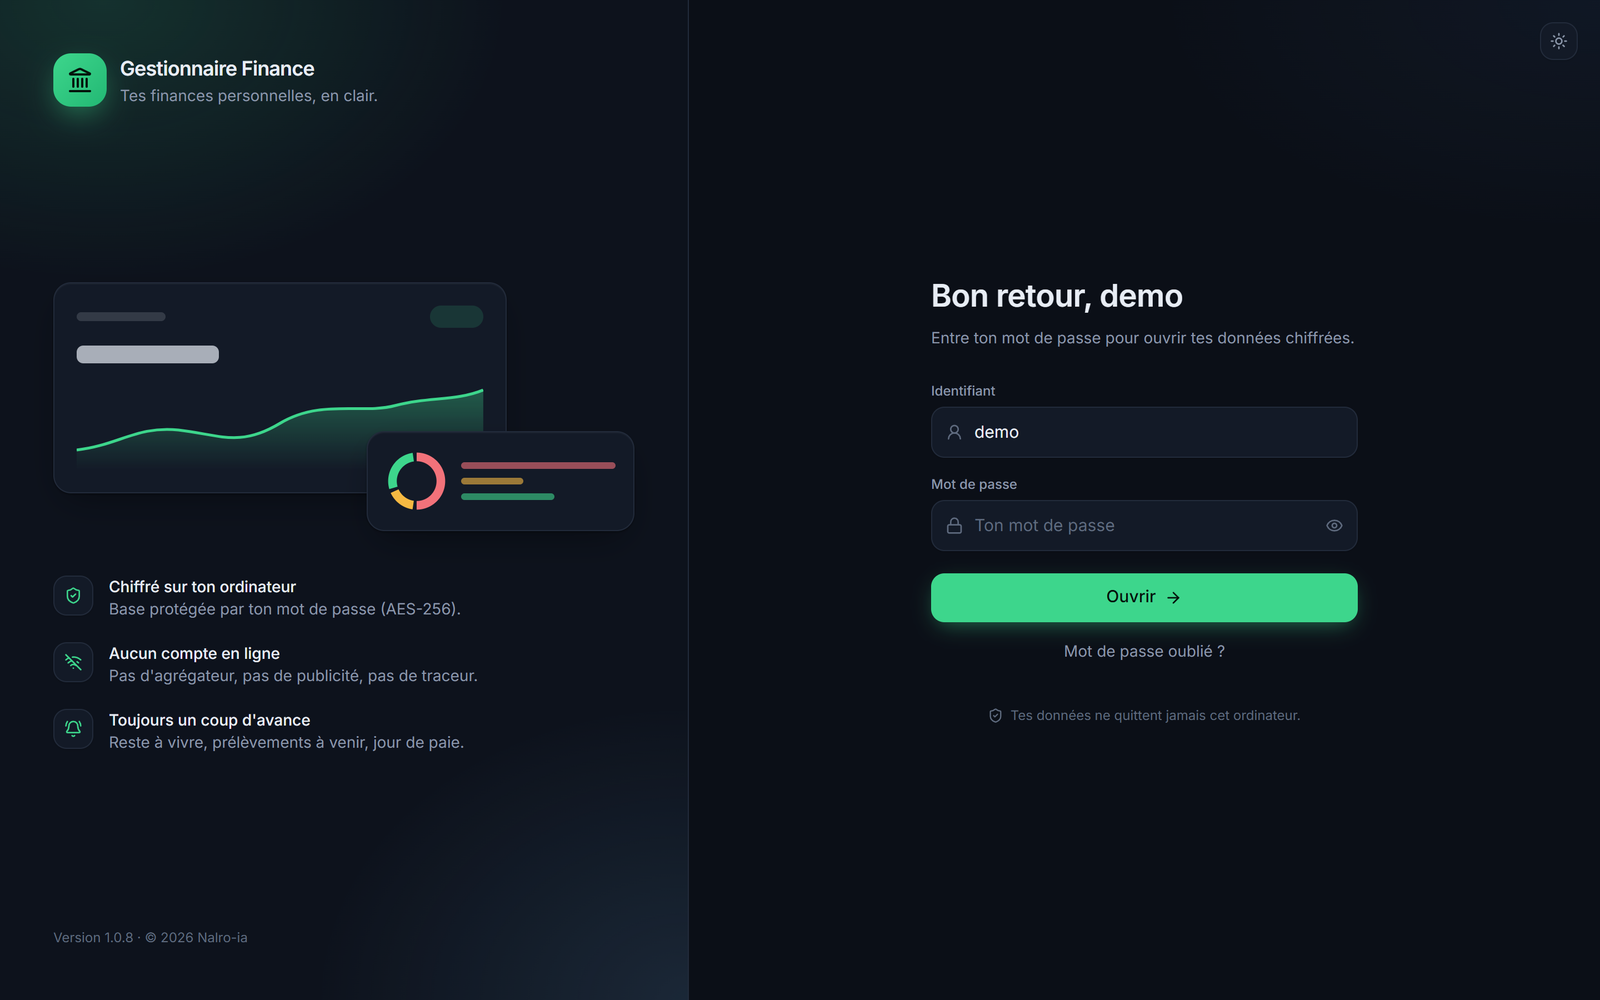
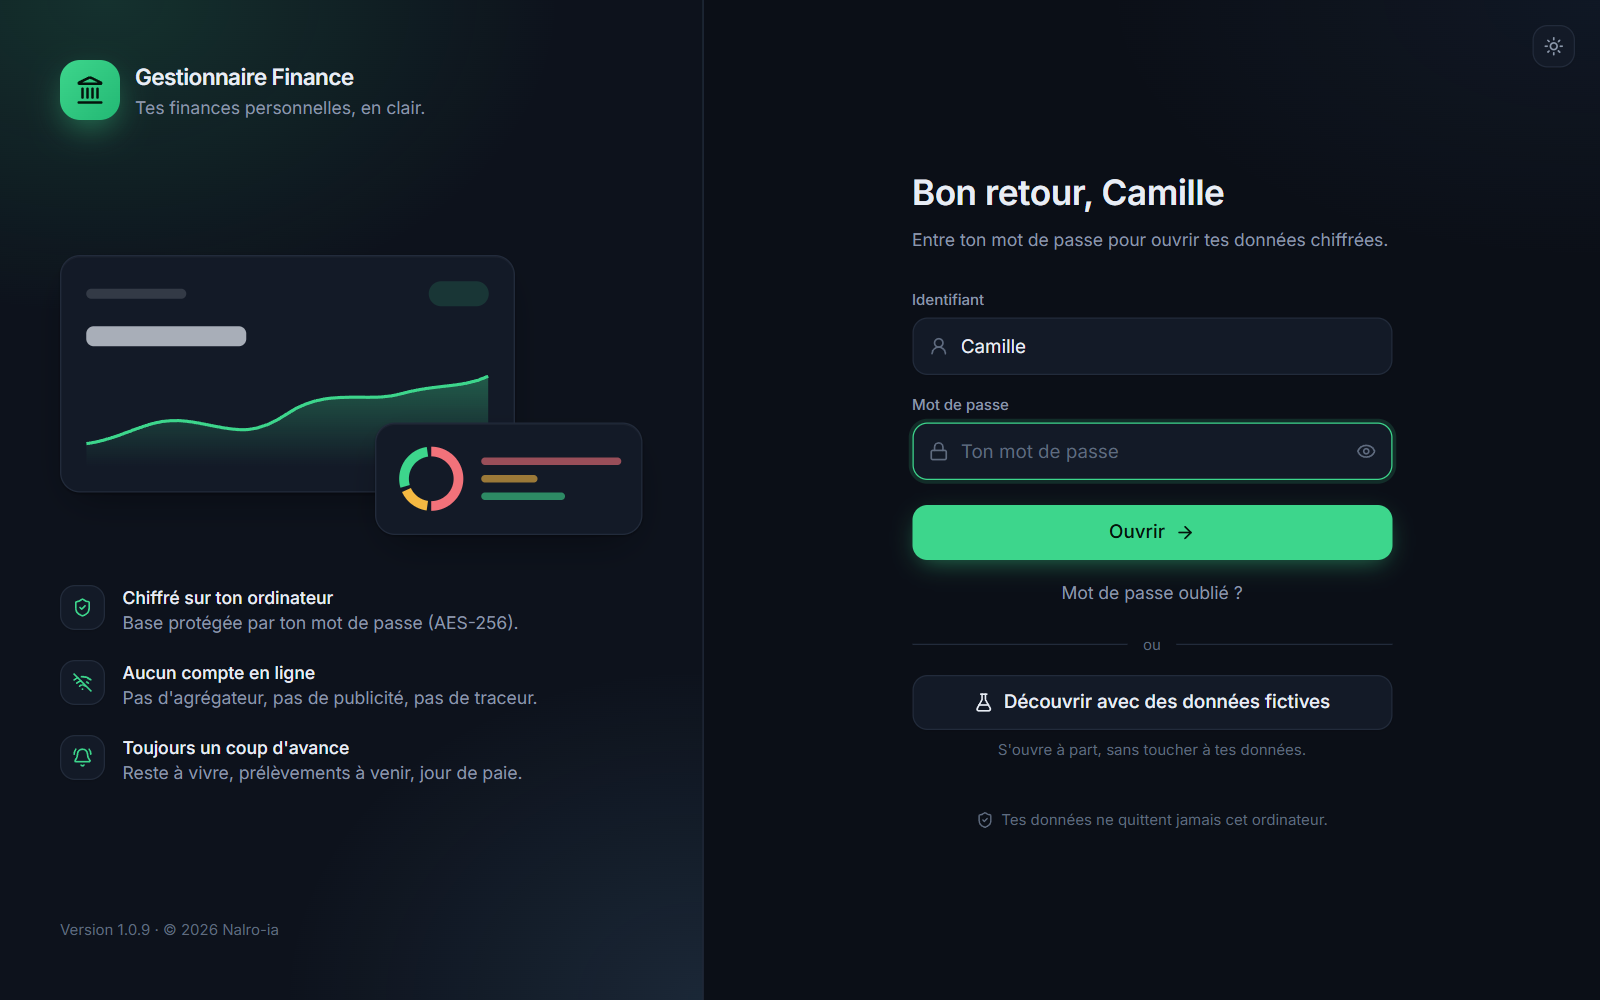
Présentation 1.0.9 : essayer avec des données fictives, écran de connexion à jour

diff --git a/README.md b/README.md
@@ -105,22 +105,35 @@ Le logiciel contacte seulement les services ci-dessous. C'est ton ordinateur qui
 
 Ces services appliquent leurs propres règles de confidentialité. Si tu n'ouvres pas l'onglet Marchés et n'installes pas Argos, seule la recherche de mise à jour a lieu.
 
+## Essayer avant de saisir tes chiffres
+
+<div align="center">
+<img src="assets/premier-lancement-dark.png" alt="Premier lancement avec le bouton Découvrir avec des données fictives" width="900">
+<br><sub>Dès le premier lancement : crée ton accès, ou découvre d'abord le logiciel avec des données fictives.</sub>
+</div>
+
+Pas envie de tout remplir pour voir à quoi ça ressemble ? Clique sur **Découvrir avec des données fictives** sur l'écran d'accueil.
+
+- La démonstration s'ouvre **dans une fenêtre à part**, avec un salaire, des prélèvements, une épargne et des placements inventés.
+- Les dates suivent **le mois en cours**, donc tout est vivant : avancement de la période, prochaines échéances, jour de paie.
+- **Tes propres données ne sont jamais ouvertes.** Un bandeau rappelle que tout est fictif, et **Quitter la démonstration** referme la fenêtre.
+
+## Installer
+
+1. Télécharge `Gestionnaire-Finance_<version>_x64-setup.exe` dans la [**dernière version**](https://github.com/Nalro-ia/gestionnaire-finance-releases/releases/latest).
+2. Lance-le. Si Windows affiche « Windows a protégé votre ordinateur », clique sur **Informations complémentaires**, puis **Exécuter quand même**. L'installeur n'a pas encore de certificat de signature payant.
+3. Choisis ton identifiant et ton mot de passe, puis note la clé de récupération. Tu peux aussi commencer par **Découvrir avec des données fictives**.
+
+Les **mises à jour arrivent ensuite automatiquement** dans le logiciel, avec une signature vérifiée.
+
+**Configuration :** Windows 10 ou 11, 64 bits. Argos est facultatif : au premier lancement, le logiciel propose d'installer l'IA locale et choisit un modèle adapté à ton PC.
+
 ## Un avis, un problème ?
 
 Écris-le dans les [**Issues**](https://github.com/Nalro-ia/gestionnaire-finance-releases/issues/new/choose) de ce dépôt (un compte GitHub gratuit suffit). Toute idée d'amélioration est la bienvenue.
 
 > [!WARNING]
 > Les Issues sont **publiques** : tout le monde peut les lire. N'y mets **jamais de vrais montants, relevés, noms ou numéros de compte**, ni de capture de tes vraies données. Pour montrer un problème en image, masque d'abord les chiffres et les noms.
-
-## Installer
-
-1. Télécharge `Gestionnaire-Finance_<version>_x64-setup.exe` dans la [**dernière version**](https://github.com/Nalro-ia/gestionnaire-finance-releases/releases/latest).
-2. Lance-le. Si Windows affiche « Windows a protégé votre ordinateur », clique sur **Informations complémentaires**, puis **Exécuter quand même**. L'installeur n'a pas encore de certificat de signature payant.
-3. Choisis ton identifiant et ton mot de passe, puis note la clé de récupération.
-
-Les **mises à jour arrivent ensuite automatiquement** dans le logiciel, avec une signature vérifiée.
-
-**Configuration :** Windows 10 ou 11, 64 bits. Argos est facultatif : au premier lancement, le logiciel propose d'installer l'IA locale et choisit un modèle adapté à ton PC.
 
 ---
 
